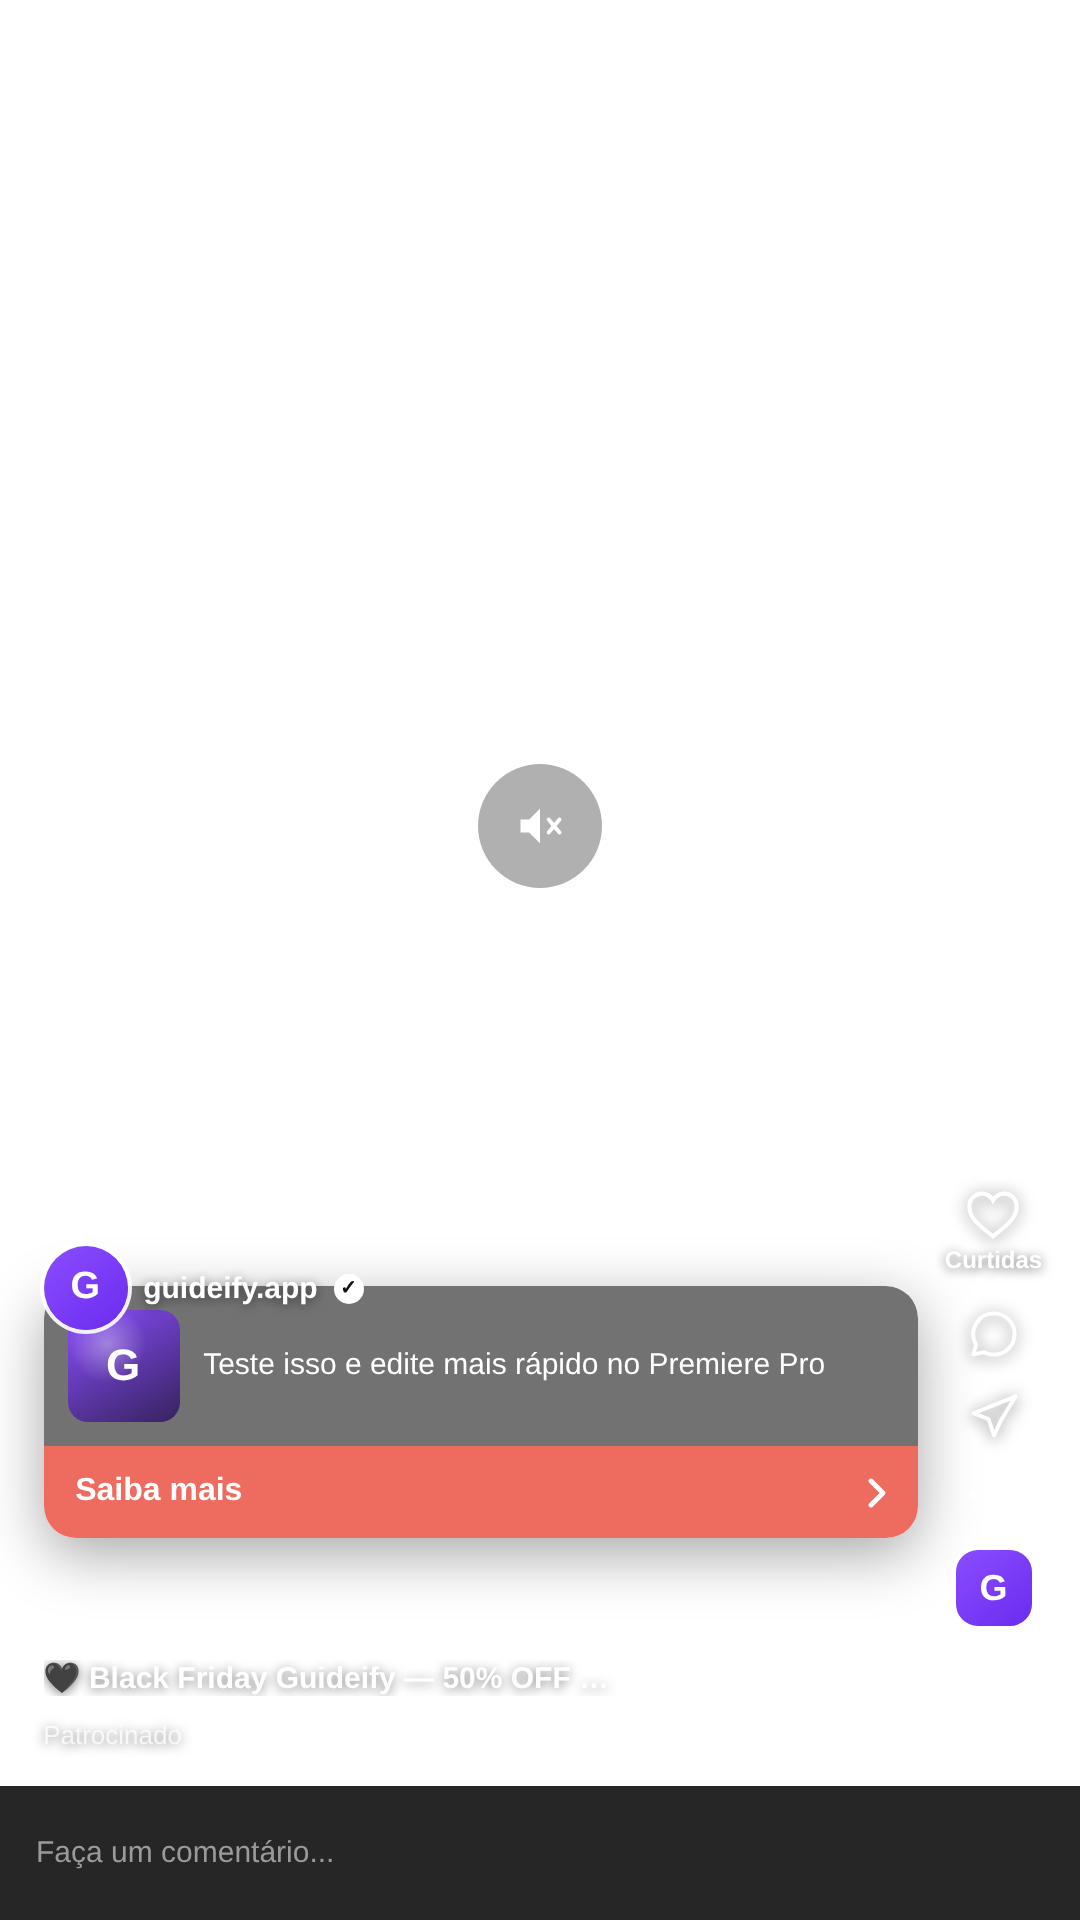
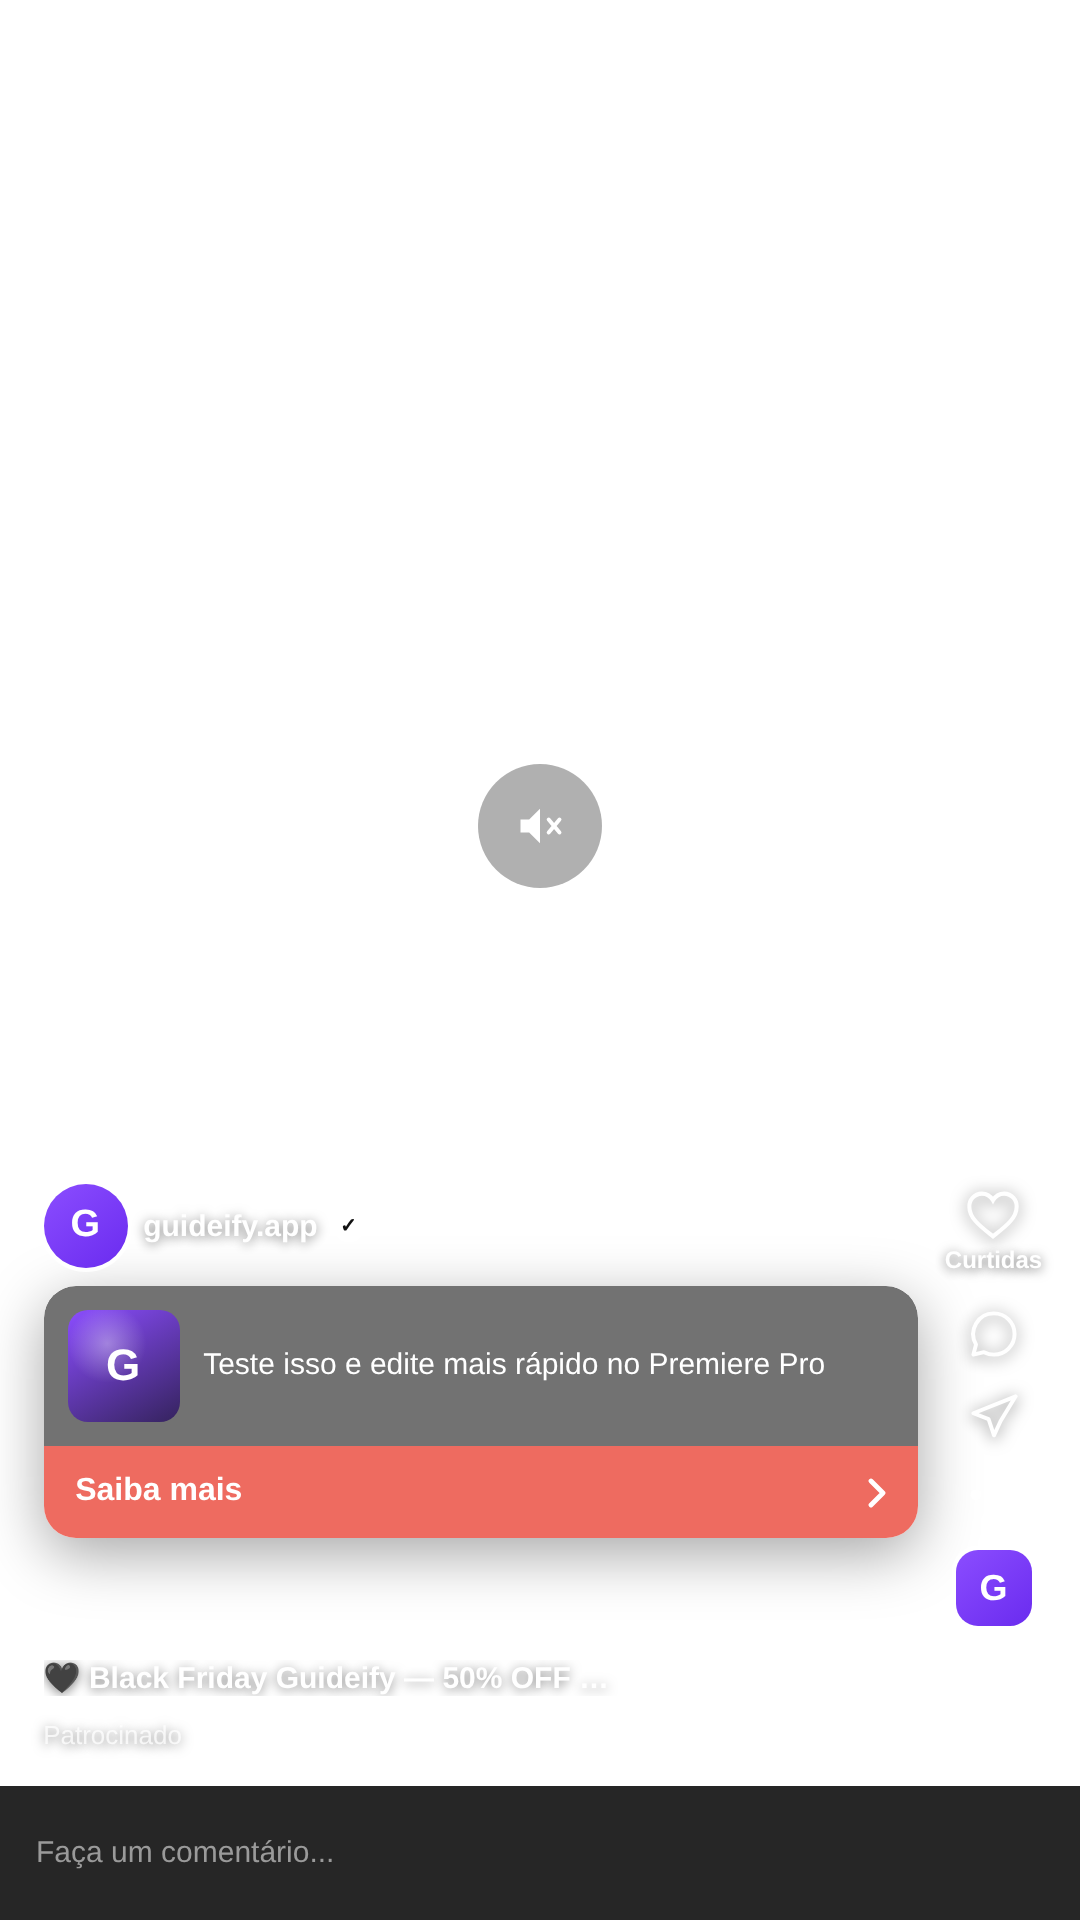
Separa foto de perfil e nome do card do anúncio
Perfil agora fica acima do box, sem sobrepor a borda.

Claude-Session: https://claude.ai/code/session_01H7oU9ihroPLDtHn1B4KJFe

Changed region(s): [[0.0306, 0.5938, 0.3361, 0.7188]]

diff --git a/docs/anuncio-guideify-9x16-overlay.html b/docs/anuncio-guideify-9x16-overlay.html
@@ -76,7 +76,7 @@
 
   /* ===== perfil ===== */
   .profile {
-    position: absolute; left: 4%; top: 64.9%;
+    position: absolute; left: 4%; top: 61.7%;
     display: flex; align-items: center; gap: 8px;
     z-index: 3;
   }

diff --git a/docs/anuncio-guideify-9x16.html b/docs/anuncio-guideify-9x16.html
@@ -76,7 +76,7 @@
 
   /* ===== perfil ===== */
   .profile {
-    position: absolute; left: 4%; top: 64.9%;
+    position: absolute; left: 4%; top: 61.7%;
     display: flex; align-items: center; gap: 8px;
     z-index: 3;
   }
